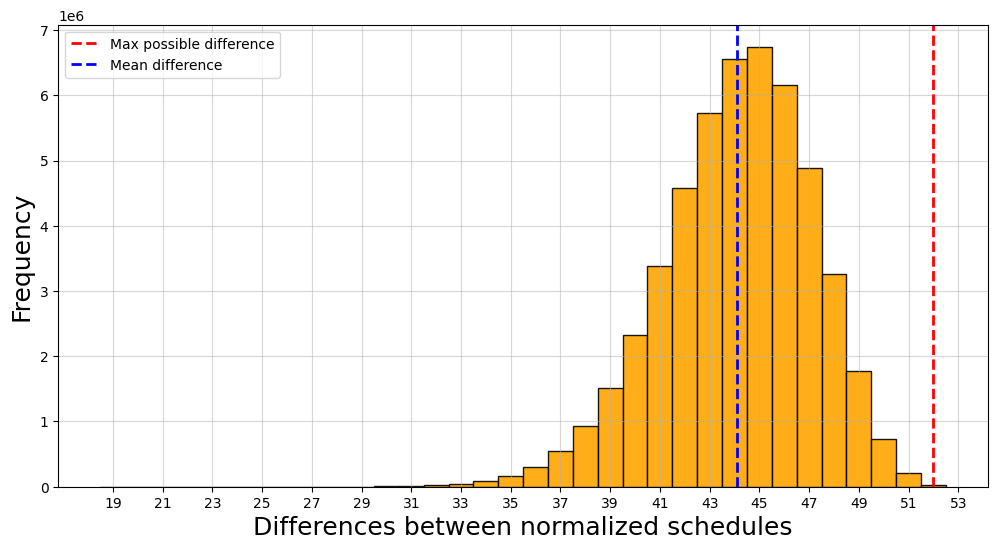
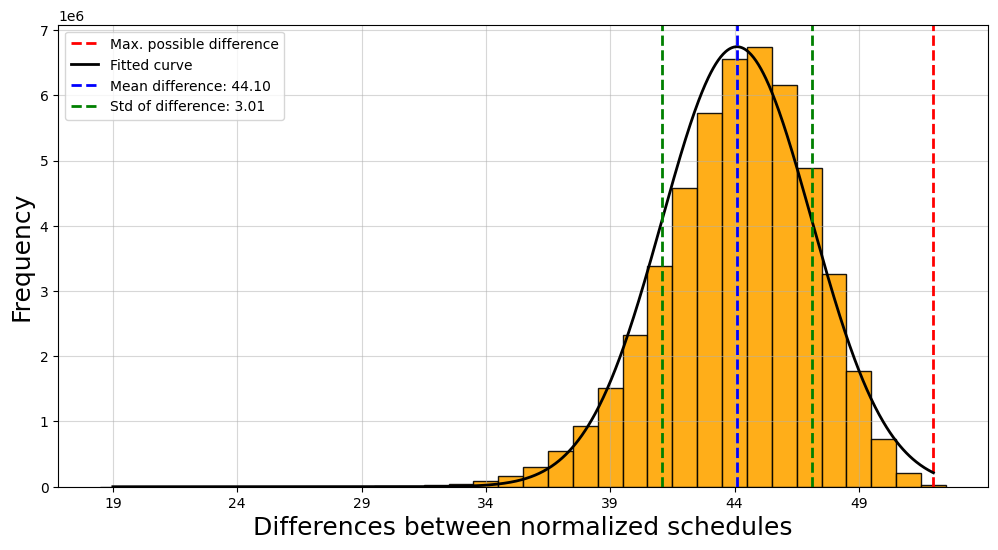
Making plots nicer, one step at a time

diff --git a/plot.py b/plot.py
@@ -1,7 +1,6 @@
 import matplotlib.pyplot as plt
 import numpy as np
-import sys
-from scipy.stats import linregress, norm
+from scipy.stats import norm, lognorm
 from calc import *
 
 
@@ -47,7 +46,7 @@ def plot_diff_norm(file_path, n, plot_ID, title_add="", show=False):
     differences = [int(diff) for diff in open(file_path, "r").read()[:-1].split(",")]
     name = file_path.split("\\")[-1].split(".")[0].split(" ")[-1]
     fontsize = 18
-    
+
     if name == "":
         name = title_add + " " + str(n)
 
@@ -66,25 +65,51 @@ def plot_diff_norm(file_path, n, plot_ID, title_add="", show=False):
 
     x_axis = range(min_diff, max_diff + 2)
 
-    plt.figure(figsize=(12, 6))
+    # Create the plot and histogram
+    fig, ax = plt.figure(figsize=(12, 6))
     freqs, _, _ = plt.hist(differences, bins=x_axis, align='left', color='orange', alpha=0.9, edgecolor='black', linewidth=1)
 
+    # Add vertical lines for the max difference
     plt.axvline(x=max_diff, color='red', linestyle='--', linewidth=2, label="Max. possible difference")
 
-    if plot_ID < 3:
-        curve = fit_curve(x_axis, freqs)
+    # Plot a curve to match the distribution of the differences
+    if plot_ID < 3 and (plot_ID != 1 or n > 4):
         x_axis_curve = np.linspace(min_diff, max_diff, 1000)
+
+        # curve = fit_curve(x_axis, freqs)
+        # plt.plot(x_axis_curve, curve(x_axis_curve), color='black', linestyle='-', linewidth=2, label="Fitted curve")
+
+        pdf_fitted = norm.pdf(x_axis_curve, mean_diff, std_diff)
+        plt.plot(x_axis_curve, pdf_fitted * max(freqs) * (1 / max(pdf_fitted)), color='black', linestyle='-', linewidth=2, label="Normal dist. curve")
+
+        # shape, loc, scale = lognorm.fit(differences)
+        # pdf_fitted = lognorm.pdf(x_axis_curve, shape, loc, scale)
+        # plt.plot(x_axis_curve, pdf_fitted * max(freqs) * (1 / max(pdf_fitted)), color='black', linestyle='-', linewidth=2, label="Lognormal dist.  curve")
+
         plt.axvline(x=mean_diff, color='blue', linestyle='--', linewidth=2, label=f"Mean difference: {mean_diff:.2f}")
         plt.axvline(x=(mean_diff - std_diff), color='green', linestyle='--', linewidth=2, label=f"Std of difference: {std_diff:.2f}")
         plt.axvline(x=(mean_diff + std_diff), color='green', linestyle='--', linewidth=2)
-        plt.plot(x_axis_curve, curve(x_axis_curve), color='black', linestyle='-', linewidth=2, label="Fitted curve")
-    
-    plt.xticks(x_axis[::2])
+
+    # Code to only show every other x value
+    # Checks to make sure the last value is the max difference
+    x_values = x_axis[::2]
+    if x_values[-1] != max_diff:
+        x_values[-1] = max_diff
+
+    # Set the labels and title
+    plt.xticks(x_values)
     plt.xlabel("Differences between normalized schedules", fontsize=fontsize)
     plt.ylabel("Frequency", fontsize=fontsize)
     plt.grid(alpha=0.5)
     plt.legend(loc='upper left', bbox_to_anchor=(0,1))
 
+    # Depending on the plot type, save the plot with a different name
+    # Type 0 is jsut for the differences
+    # Type 1 is for the differences disregarding home/away assignments
+    # Type 2 is for the differences only considering home/away assignments
+    # Type 3 is for the differences of the top 8 teams
+    # Type 4 is for the differences of the top 8 teams disregarding home/away assignments
+    # Type 5 is for the differences of the top 8 teams only considering home/away assignments
     if plot_ID == 0:
         plt.savefig(f"Plots/no_title/Diff-Norm_{name}.png", bbox_inches='tight')
         plt.title(f"Distribution of differences for {title_add}normalized schedules for n = {n}", fontsize=fontsize)
@@ -107,6 +132,10 @@ def plot_diff_norm(file_path, n, plot_ID, title_add="", show=False):
         plt.savefig(f"Plots/no_title/Diff-Reduced-Top8_{name}.png", bbox_inches='tight')
         plt.title(f"Distribution of differences for \"top 8\" normalized schedules for n = {n}\nDisregarding home/away assignments", fontsize=fontsize)
         plt.savefig(f"Plots/Diff-Reduced-Top8_{name}.png", bbox_inches='tight')
+    elif plot_ID == 5:
+        plt.savefig(f"Plots/no_title/Diff-Teamless-Top8_{name}.png", bbox_inches='tight')
+        plt.title(f"Distribution of differences for \"top 8\" normalized schedules for n = {n}\nOnly considering home/away assignments", fontsize=fontsize)
+        plt.savefig(f"Plots/Diff-Teamless-Top8_{name}.png", bbox_inches='tight')
     if show:
         plt.show()
 
@@ -202,7 +231,7 @@ if __name__ == "__main__":
         # ("./Distances/Distances Teamless Random-10k-10.csv", 10, 2, "10k random ")
     ]
 
-    for plot in plots:
+    for plot in plots[0:1]:
         file_path, n, plot_ID, title_add = plot
         plot_diff_norm(file_path, n, plot_ID, title_add, True)
 

diff --git a/calc.py b/calc.py
@@ -36,7 +36,7 @@ def fit_curve(x, y):
     best_fit = 0
     best_curve = None
 
-    for degree in range(3, 8):
+    for degree in range(1, 8):
         result = adjusted_R2(x, y, degree)
         if result[0] > best_fit:
             best_fit = result[0]
